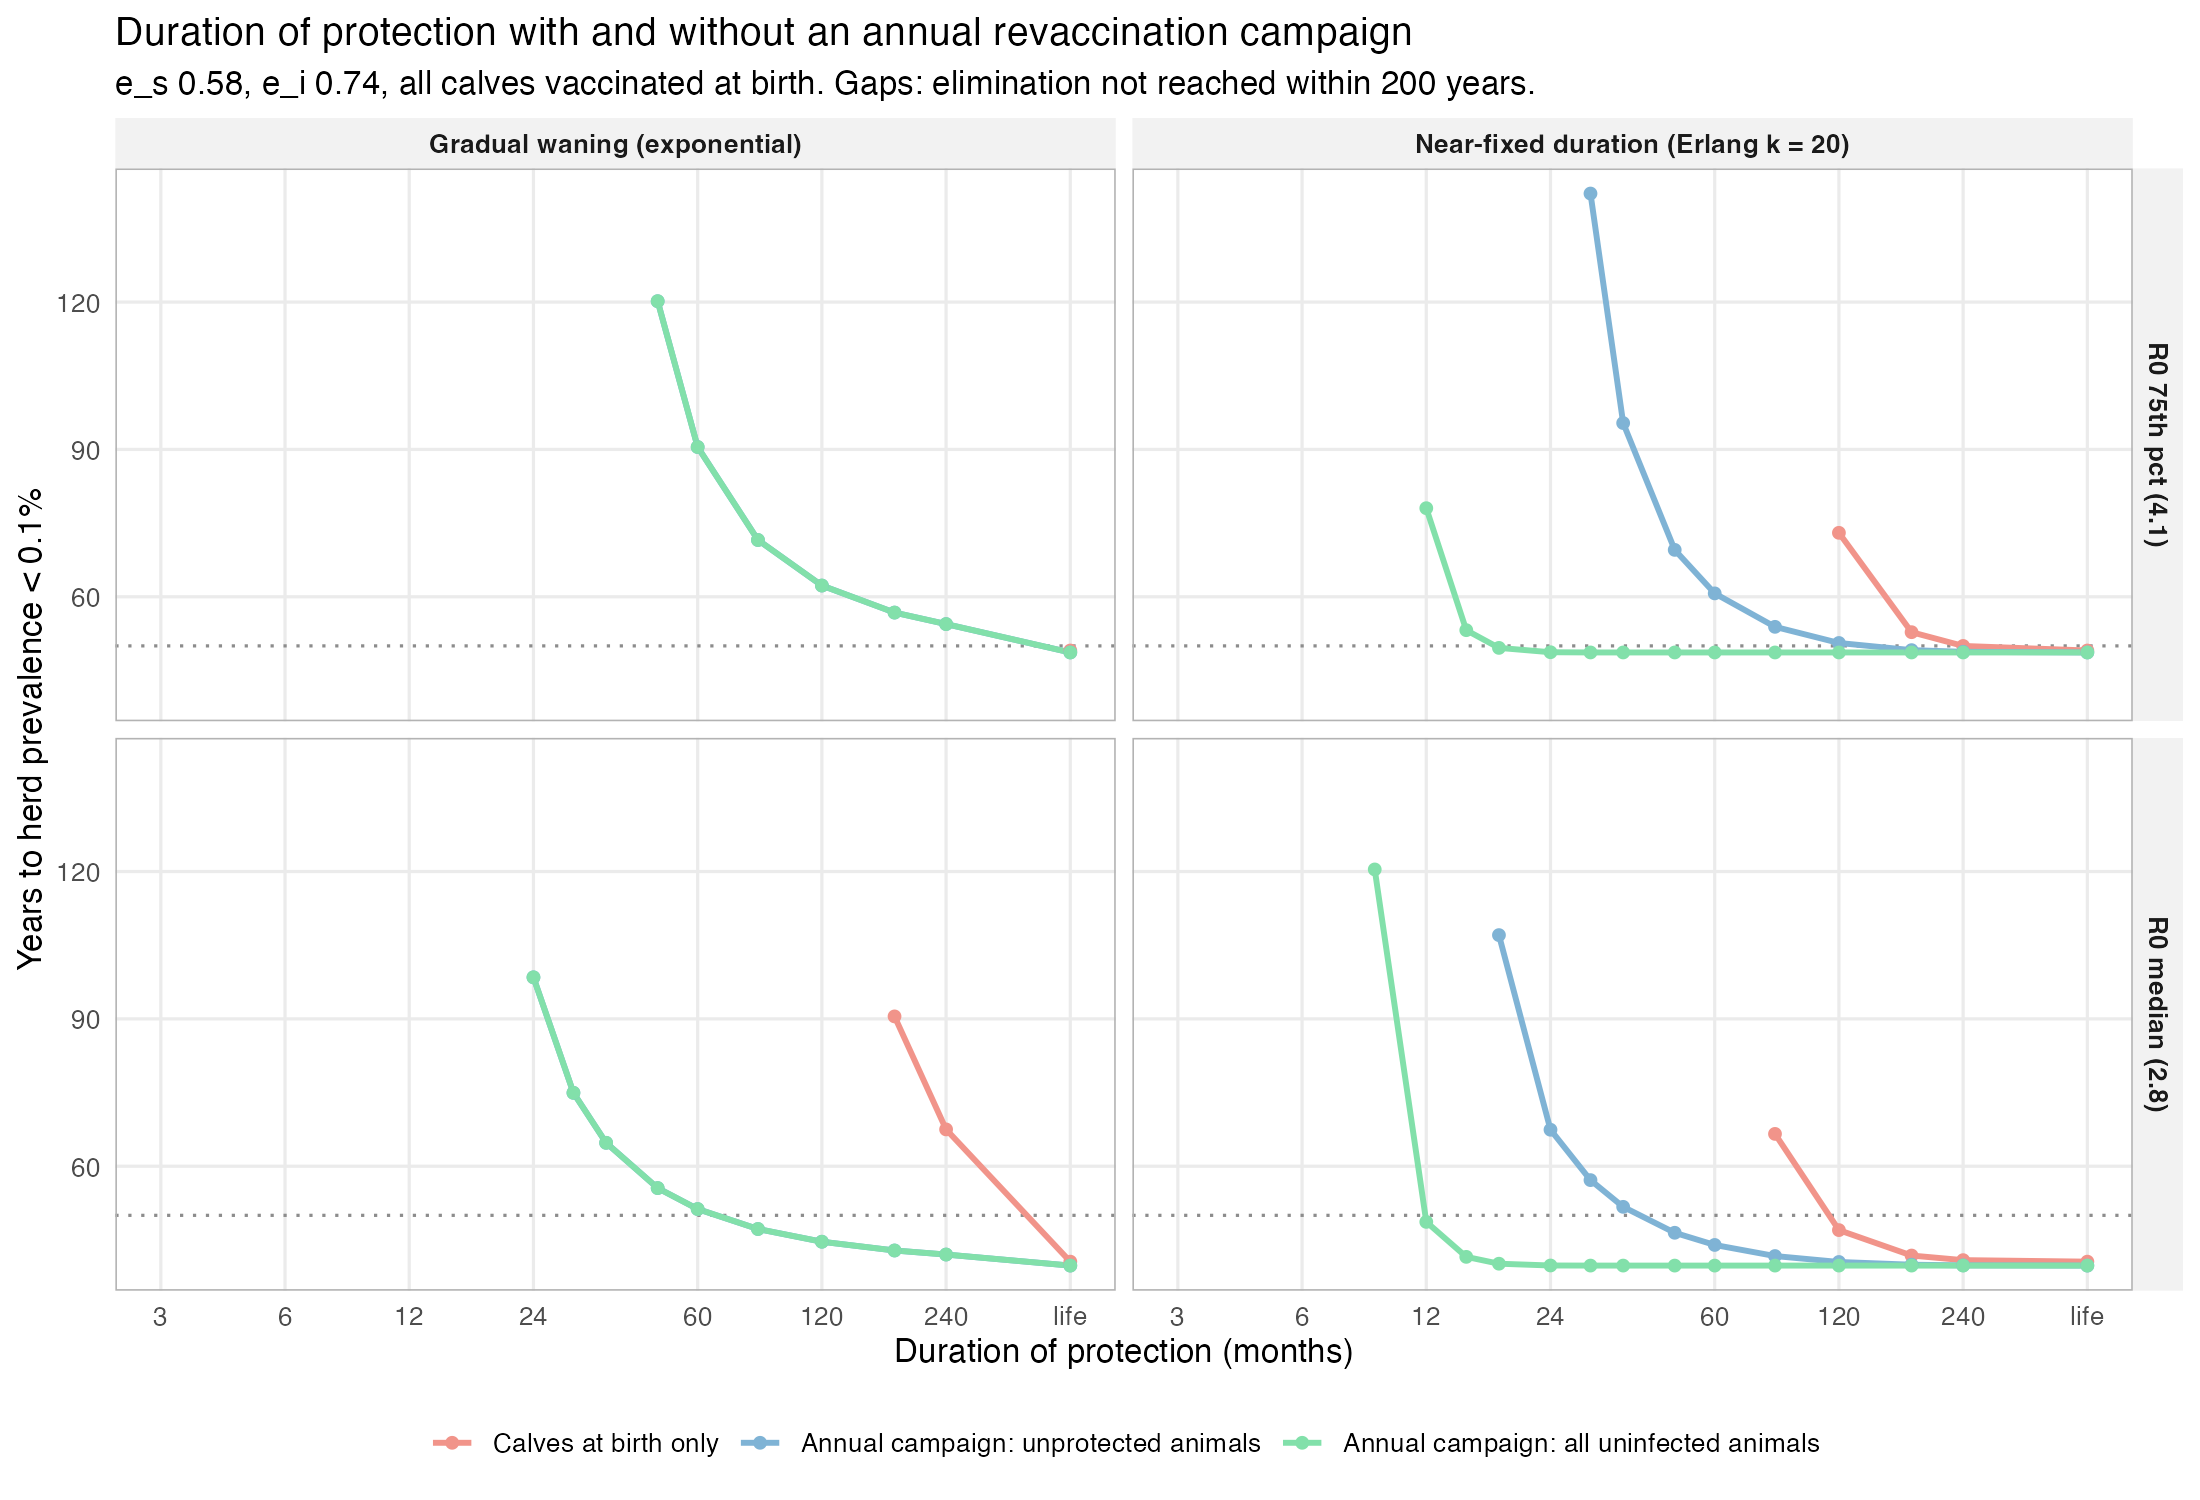
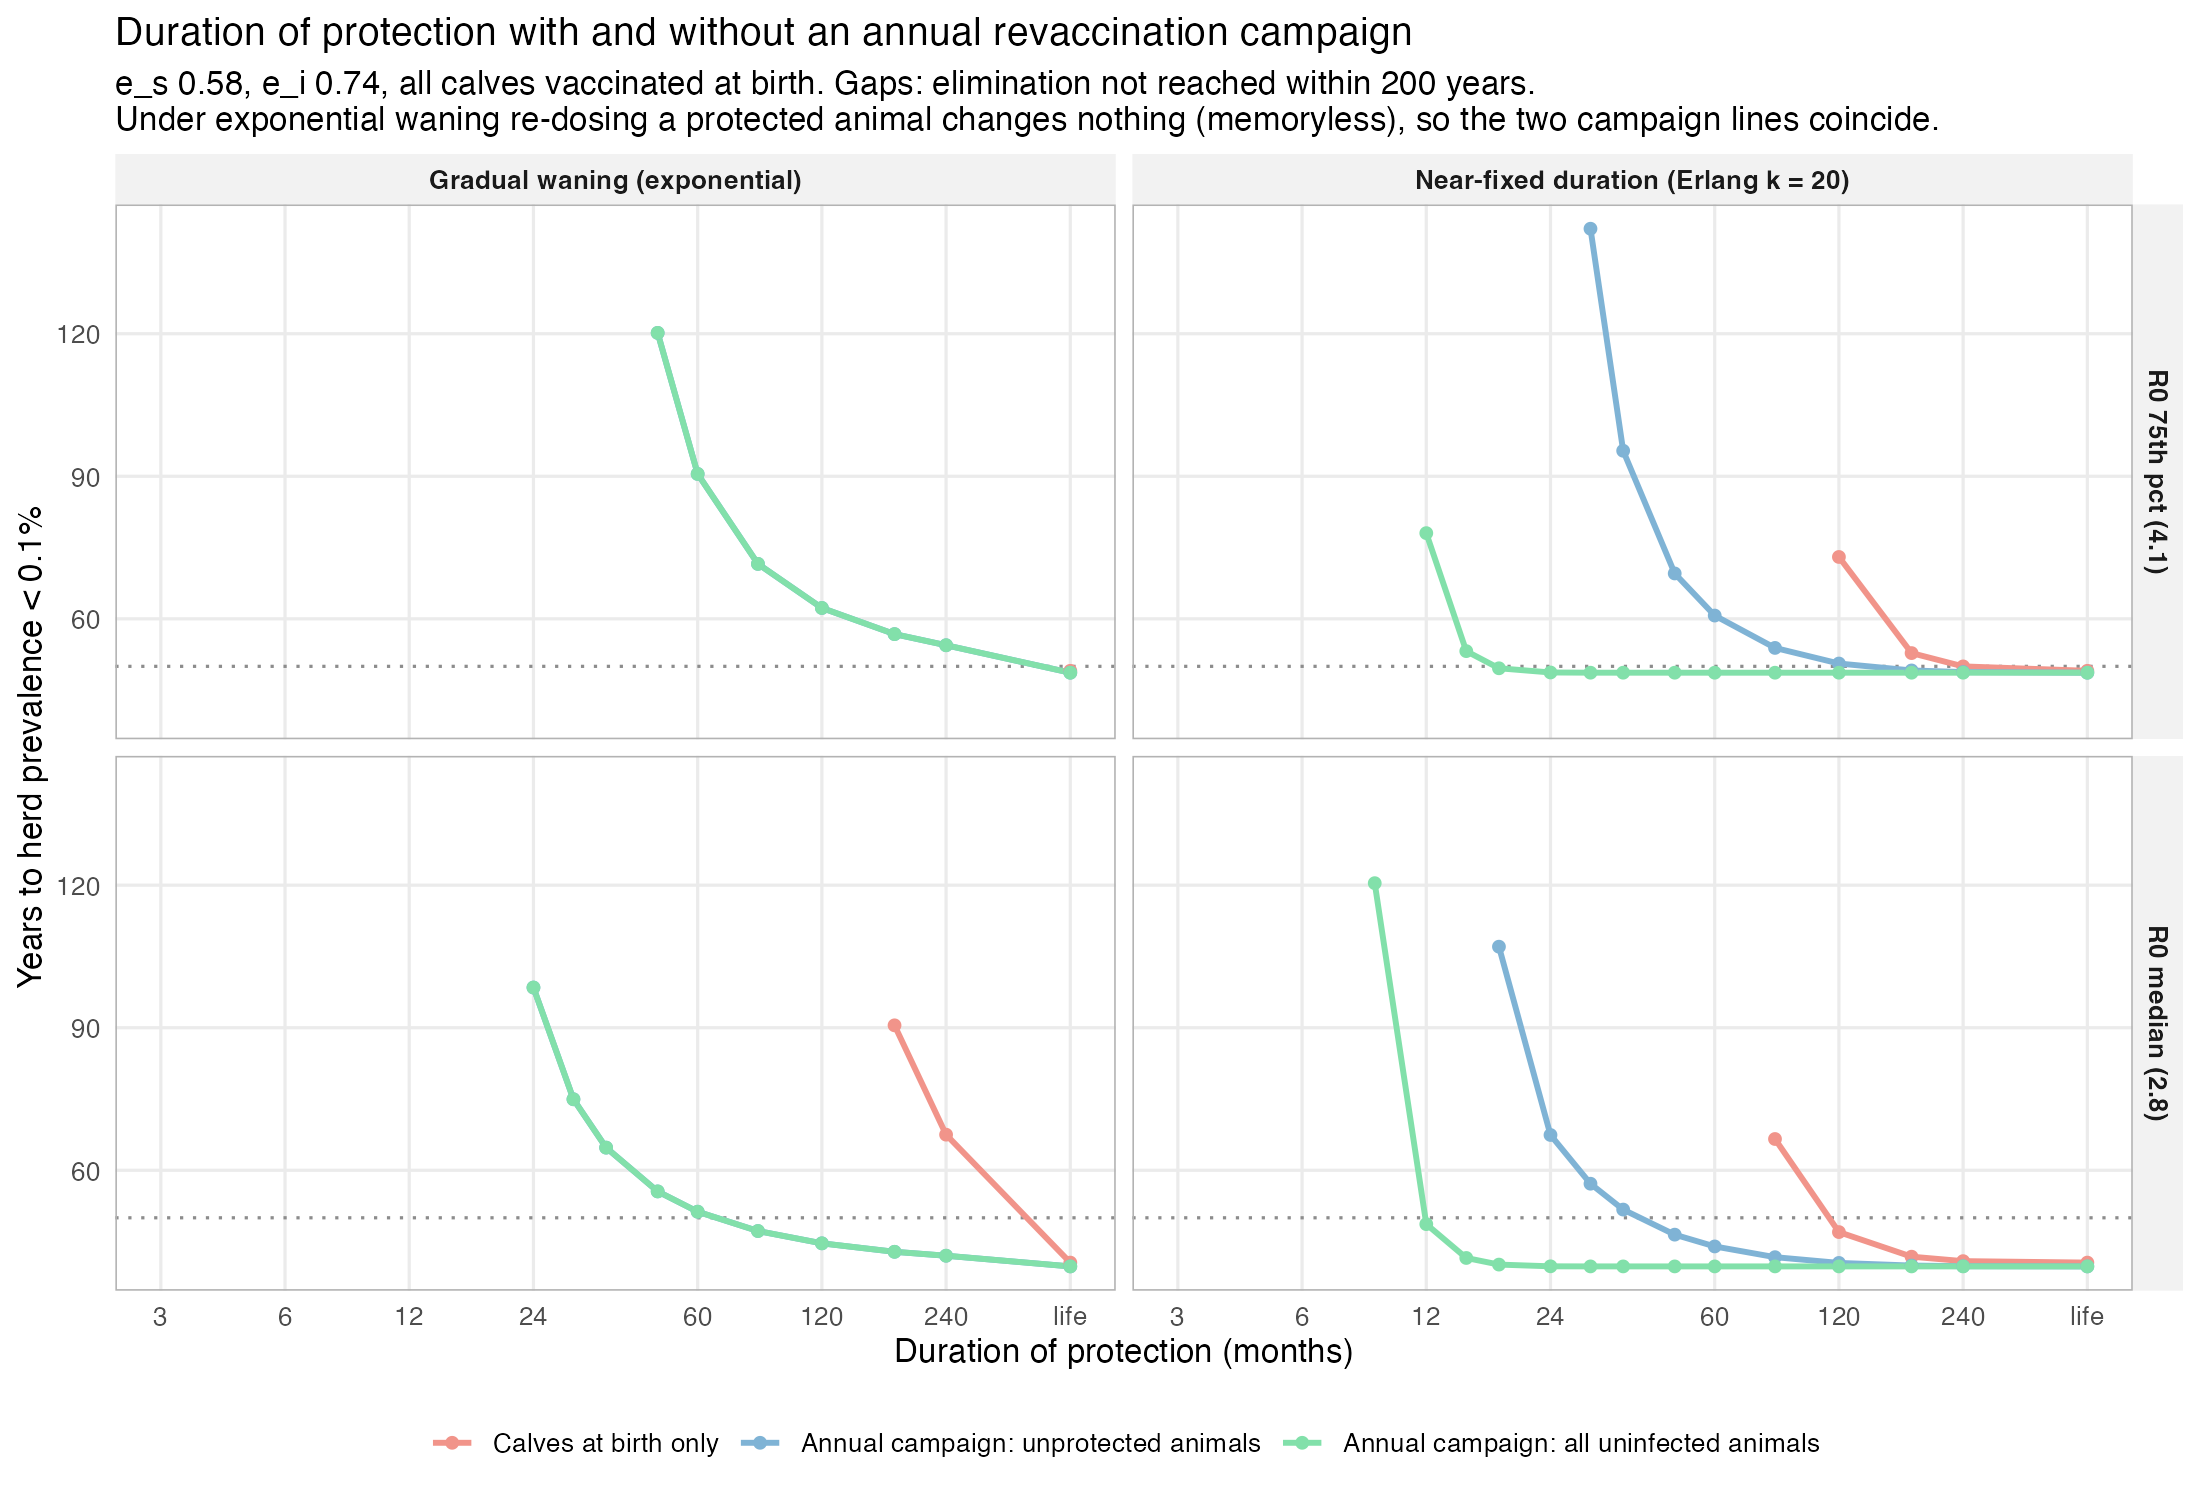
Report the revaccination results and refresh figures 9 to 11

diff --git a/README.md b/README.md
@@ -166,6 +166,41 @@ elimination in small herds with R_v slightly above 1, which softens the
 cliff. In 100 replicates of the full 57-herd population no replicate reached
 zero infected animals within 200 years, because of the three high-R0 herds.
 
+Revaccination and duration of protection (`run_revaccination.R`). Years to
+herd prevalence below 0.1% in the median herd, deterministic model, with all
+calves vaccinated at birth and an annual campaign added:
+
+| Duration | Calves only | Annual, unprotected animals | Annual, all uninfected animals |
+| --- | --- | --- | --- |
+| 6 months, near-fixed | never | never | never |
+| 12 months, near-fixed | never | never | 49 |
+| 18 months, near-fixed | never | 107 | 40 |
+| 24 months, near-fixed | never | 67 | 40 |
+| 36 months, near-fixed | never | 52 | 40 |
+| 12 months, gradual | never | never | never |
+| 24 months, gradual | never | 99 | 99 |
+| 36 months, gradual | never | 65 | 65 |
+| Lifelong | 41 | 40 | 40 |
+
+Three things decide the outcome. First, an annual campaign that only doses
+animals whose protection has lapsed leaves gaps: a 12-month vaccine given
+once a year still lets half the campaign cohort and every mid-year calf
+lapse before the next round, so the herd averages 71% protected and R_v is
+1.03. Second, dosing every uninfected animal at each campaign, protected or
+not, closes those gaps once the duration exceeds the 12-month interval,
+and from 18 months on it is indistinguishable from lifelong protection.
+Third, with gradual (exponential) waning, re-dosing a still-protected
+animal changes nothing, because exponential waning has no memory, so the
+two campaign strategies coincide and a mean duration of about 24 months is
+the shortest that eliminates. Six-month protection fails under every
+strategy with an annual interval. The stochastic check for the 44-animal
+median herd reproduces the ordering with shorter absolute times; a
+12-month near-fixed vaccine with re-dosing of all uninfected animals
+reaches zero infected animals in a median of 24 years, against 22 for
+lifelong protection. Across the 57 herds, the share eliminated by year 50
+under re-dosing of all uninfected animals reaches the lifelong value of 75%
+at 18 months, and under lapsed-only dosing at about 20 years.
+
 ## Interpretation
 
 Time to elimination is not a linear function of any of the four properties.
@@ -196,5 +231,8 @@ vaccinated fraction, which is why the duration curve flattens beyond about
 Herds are independent; the paper's between-herd movement network is
 omitted. Herd R0 is fixed at each herd's posterior median. The deterministic
 threshold of 0.1% is stricter than one animal for herds under 1000 head.
-Waning is exponential, which is the simplest choice, and the reduced
-infectiousness of infected vaccinated animals is assumed permanent.
+Waning is exponential in the main analyses, with an Erlang alternative in
+the revaccination script, and the reduced infectiousness of infected
+vaccinated animals is assumed permanent. Campaigns dose every eligible
+animal at once; partial campaign coverage is a parameter (`cv`) that was not
+varied.
